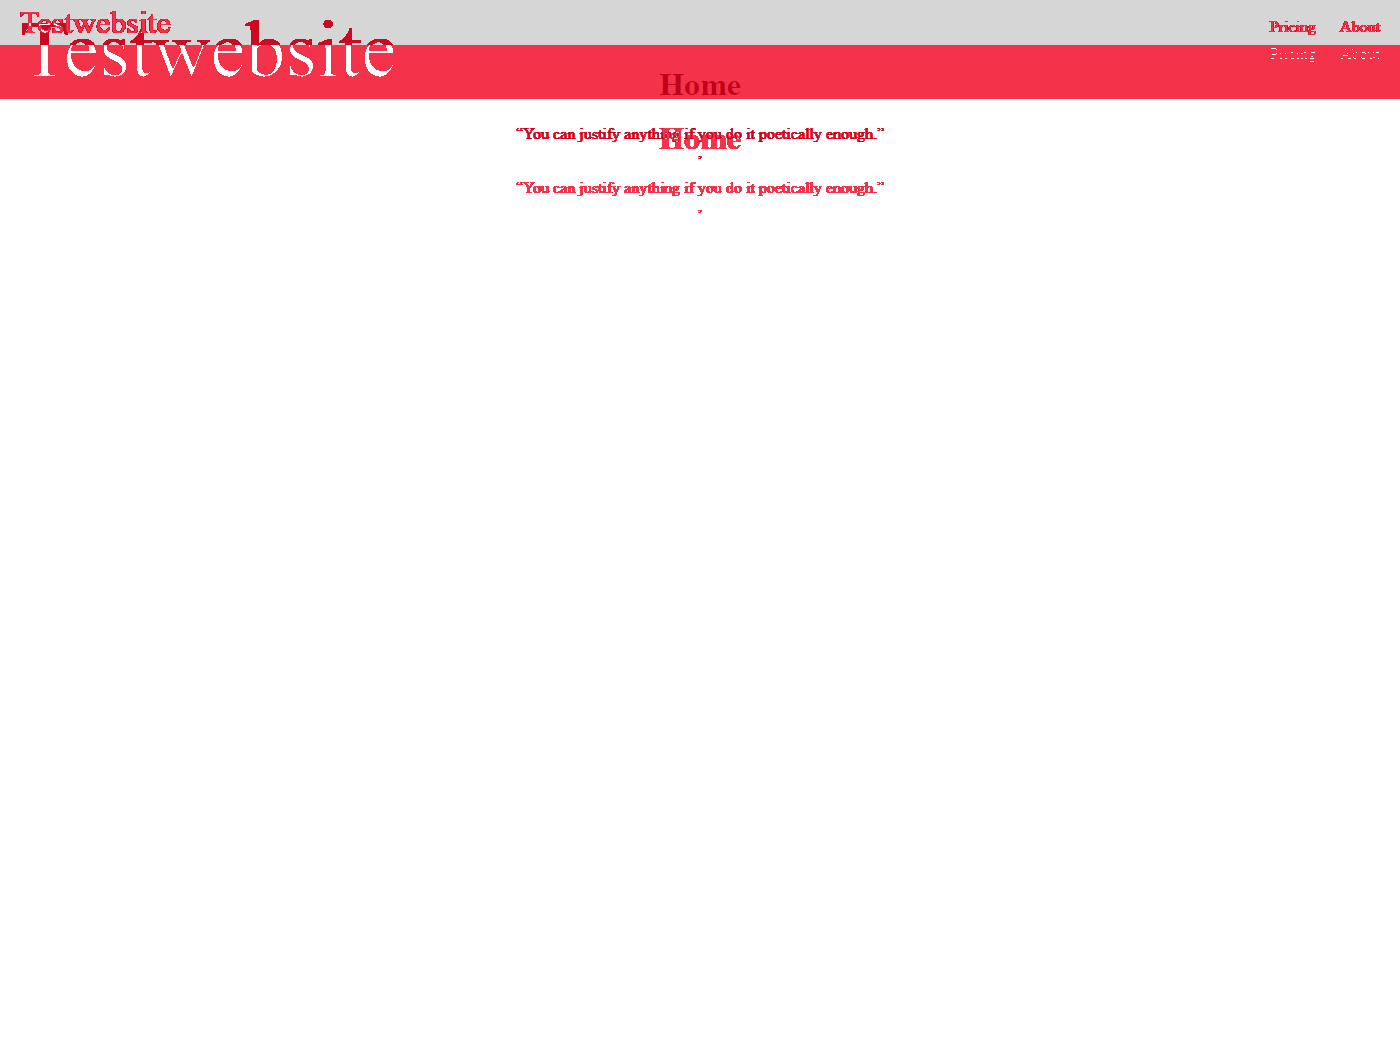
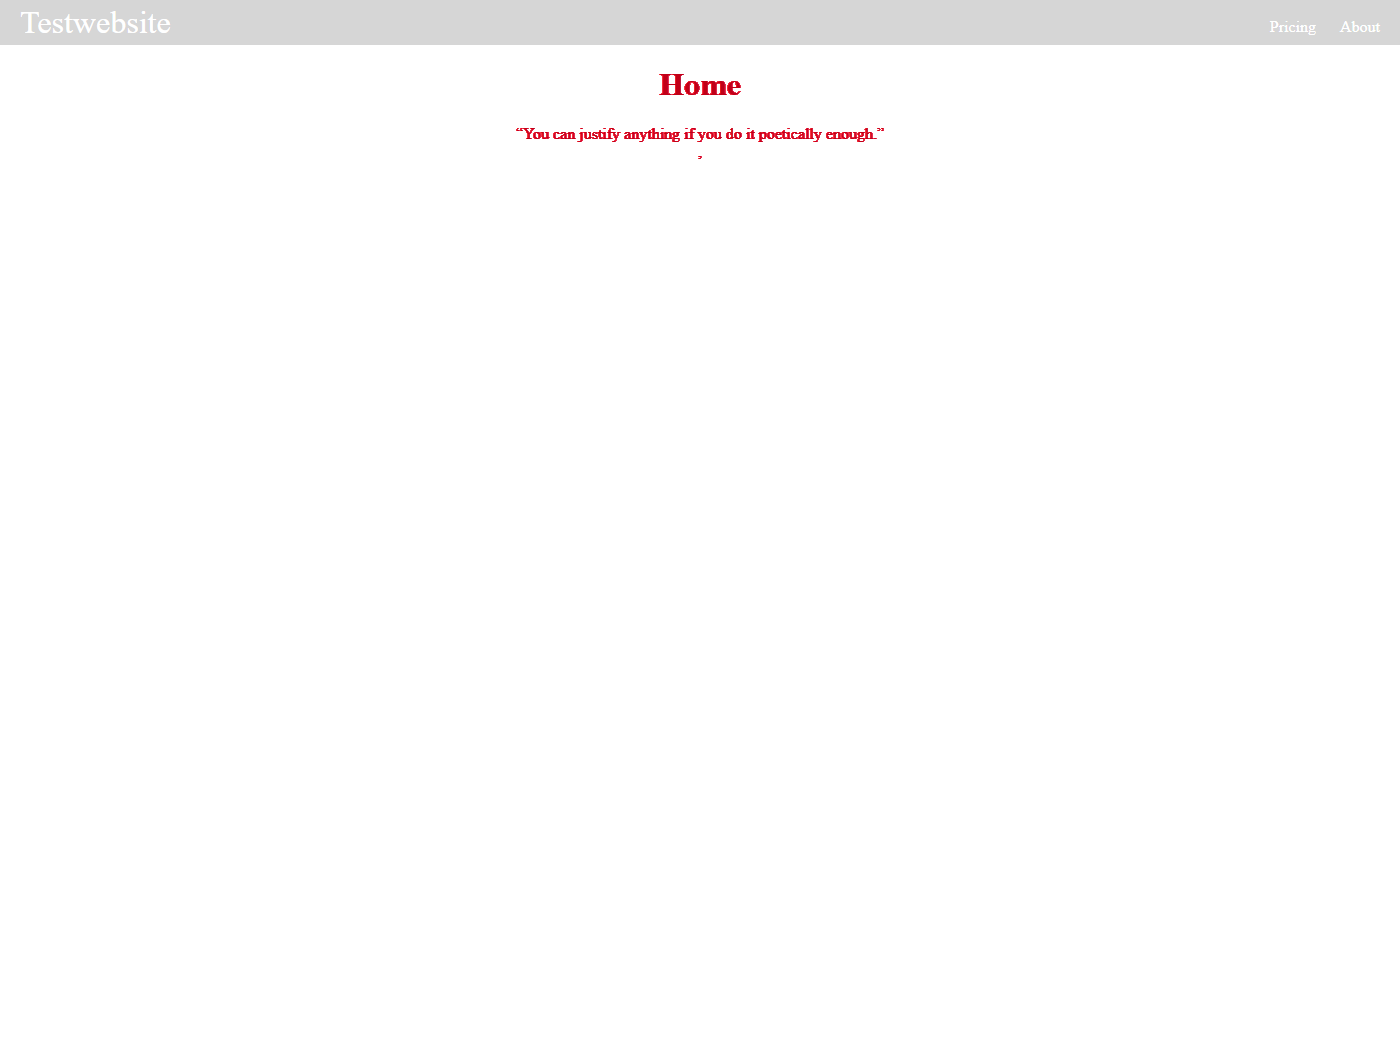
fixed home page bug

Changed region(s): [[0.0, 0.0, 1.0, 0.0914], [0.3686, 0.1219, 0.6143, 0.1829]]

diff --git a/src/pages/Home.js b/src/pages/Home.js
@@ -4,10 +4,6 @@ import React from 'react'
 export default function Home() {
   return (
     <>
-    <h1>Home</h1>
-    <div className="text-wrapper">
-    “You can justify anything if you do it poetically enough.”
-    </div>,
     </>
   )
 }
